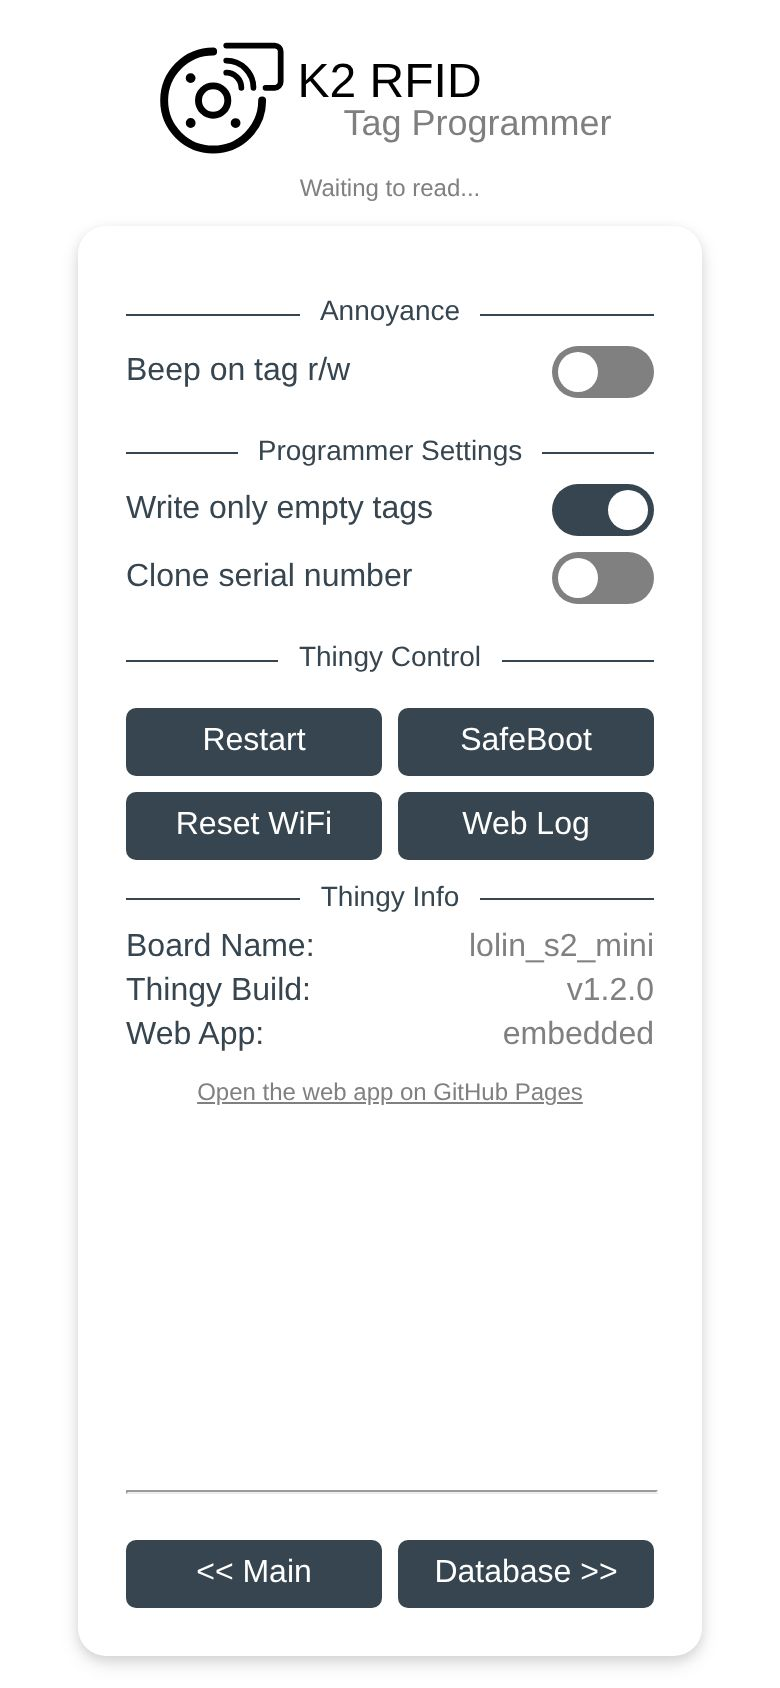
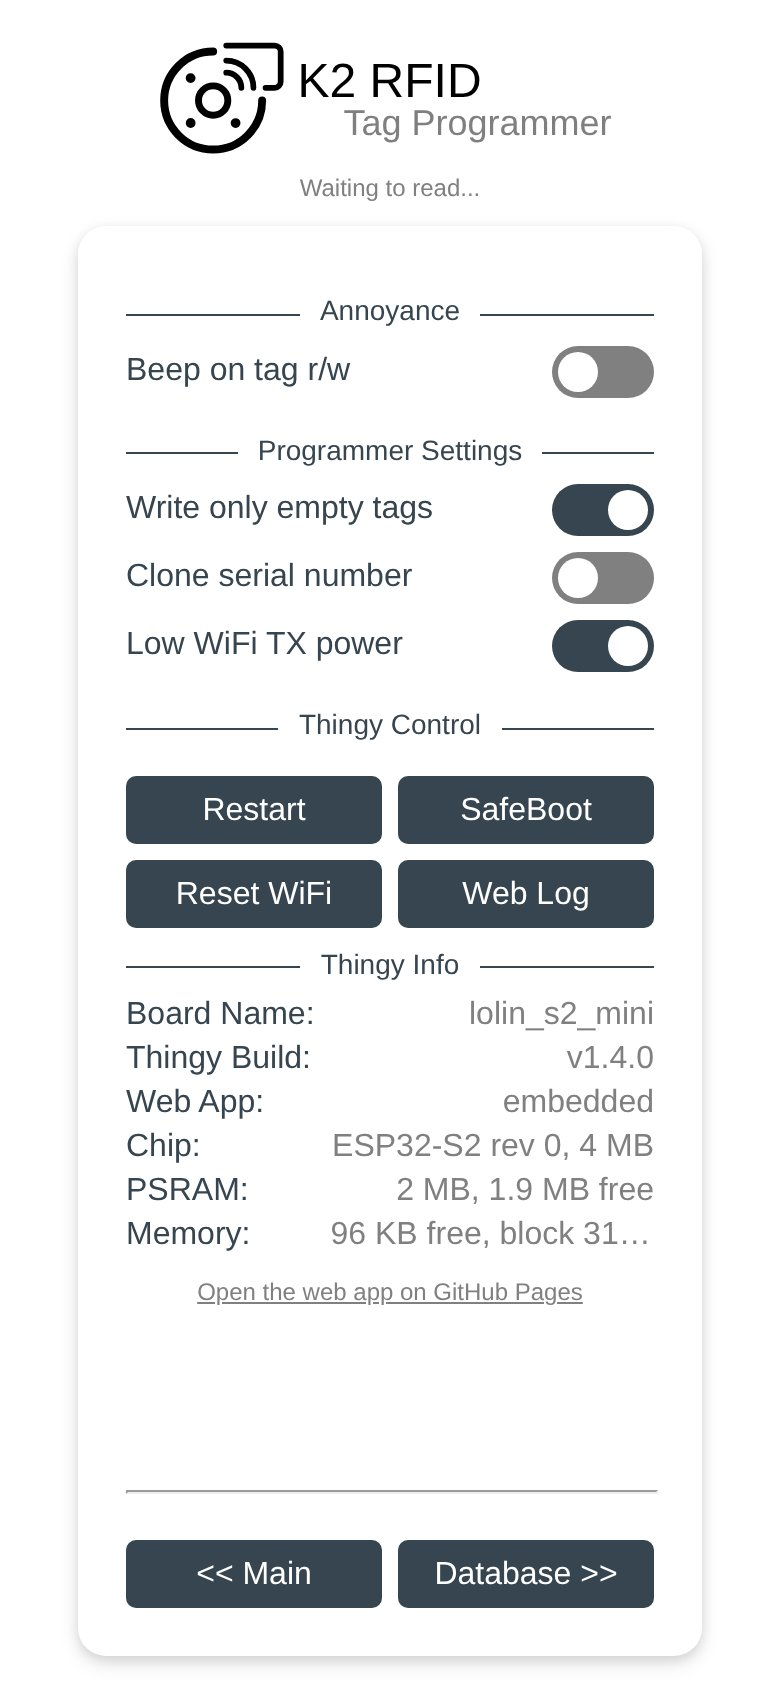
Settings: 'Low WiFi TX power' switch (8.5 dBm), v1.5.2-beta
The LOLIN S2 Mini drops out of the WiFi on weak USB power at full
transmit power. Applied on every WiFi start and right away when switched.

diff --git a/web/tools/mock-device.js b/web/tools/mock-device.js
@@ -16,7 +16,7 @@ const TYPES = { '.html': 'text/html', '.svg': 'image/svg+xml', '.png': 'image/pn
 
 // MOCK_DB=path serves another database, e.g. one copied from a printer
 let database = await readFile(process.env.MOCK_DB ?? join(DATA, 'material_database.json'))
-const config = { cloneSerial: false, beepAvailable: true, beepOnRW: false, writeTags: false, writeEmptyTags: true, PN532: true }
+const config = { cloneSerial: false, beepAvailable: true, beepOnRW: false, lowTxPower: false, writeTags: false, writeEmptyTags: true, PN532: true }
 const printer = { host: '', customPassword: false }
 let nextId = 1
 // 'app', 'down' (restarting) or 'safeboot'
@@ -109,7 +109,7 @@ wss.on('connection', (ws) => {
       config.writeEmptyTags = msg.writeEmptyTags
       broadcast({ type: 'arm_state', origin: id, writeTags: config.writeTags, writeEmptyTags: config.writeEmptyTags, spooldata: msg.spooldata })
     } else if (msg.type === 'update_config') {
-      Object.assign(config, { beepOnRW: msg.beepOnRW, cloneSerial: msg.cloneSerial })
+      Object.assign(config, { beepOnRW: msg.beepOnRW, cloneSerial: msg.cloneSerial, lowTxPower: msg.lowTxPower ?? config.lowTxPower })
       broadcast({ type: 'update_config', origin: id, ...config })
     }
   })

diff --git a/web/src/main.js b/web/src/main.js
@@ -26,6 +26,7 @@ const state = {
   writeEmptyTags: true,
   beepOnRW: false,
   beepAvailable: true,
+  lowTxPower: false,
   cloneSerial: false,
   readerAvailable: true,
 }
@@ -181,7 +182,7 @@ function disarm() {
 }
 
 function sendConfig() {
-  device.send({ type: 'update_config', beepOnRW: state.beepOnRW, cloneSerial: state.cloneSerial })
+  device.send({ type: 'update_config', beepOnRW: state.beepOnRW, cloneSerial: state.cloneSerial, lowTxPower: state.lowTxPower })
 }
 
 async function loadDbFromThingy({ silent = false } = {}) {
@@ -309,6 +310,9 @@ function onConfig(msg) {
   $('beep').checked = state.beepOnRW
   $('beep').disabled = !state.beepAvailable
   $('clone').checked = state.cloneSerial
+  // older firmware doesn't know the setting
+  if (msg.lowTxPower !== undefined) state.lowTxPower = msg.lowTxPower
+  $('low-tx').checked = state.lowTxPower
 }
 
 function onArmState(msg, { initial = false } = {}) {
@@ -496,6 +500,10 @@ function bindUi() {
   }
   $('clone').onchange = (e) => {
     state.cloneSerial = e.target.checked
+    sendConfig()
+  }
+  $('low-tx').onchange = (e) => {
+    state.lowTxPower = e.target.checked
     sendConfig()
   }
   $('write-empty').onchange = (e) => {

diff --git a/web/index.html b/web/index.html
@@ -79,6 +79,10 @@
             <span>Clone serial number</span>
             <input id="clone" type="checkbox" class="switch" data-needs-connection disabled />
           </label>
+          <label class="switch-row" title="Less WiFi transmit power, for boards that lose the WiFi on a weak power supply (e.g. a computer's USB port)">
+            <span>Low WiFi TX power</span>
+            <input id="low-tx" type="checkbox" class="switch" data-needs-connection disabled />
+          </label>
 
           <h2><span>Thingy Control</span></h2>
           <div class="row tight">

diff --git a/src/ESPNetworkTask.cpp b/src/ESPNetworkTask.cpp
@@ -25,6 +25,19 @@ void ESPNetwork::begin(Scheduler* scheduler) {
   bool ap = preferences.isKey("ap") ? preferences.getBool("ap", false) : false;
   preferences.end();
 
+  preferences.begin("k2rfid", true);
+  _lowTxPower = preferences.getBool("lowtx", false);
+  preferences.end();
+
+  // the transmit power is reset whenever the WiFi (re)starts: apply it on every start
+  if (!_txPowerListener) {
+    _txPowerListener = true;
+    WiFi.onEvent([this](arduino_event_id_t event, __unused arduino_event_info_t info) {
+      if (event == ARDUINO_EVENT_WIFI_STA_START || event == ARDUINO_EVENT_WIFI_AP_START)
+        _applyTxPower();
+    });
+  }
+
   if (ssid.empty() || ap) {
     LOGI(TAG, "Trying to start captive portal in the background...");
   } else {
@@ -51,6 +64,23 @@ void ESPNetwork::end() {
   _espConnectTask->disable();
   _espConnect.end();
   LOGD(TAG, "...done!");
+}
+
+void ESPNetwork::setLowTxPower(bool low) {
+  _lowTxPower = low;
+  Preferences preferences;
+  preferences.begin("k2rfid", false);
+  preferences.putBool("lowtx", low);
+  preferences.end();
+  _applyTxPower();
+}
+
+void ESPNetwork::_applyTxPower() {
+  if (WiFi.getMode() == WIFI_MODE_NULL)
+    return;
+  const wifi_power_t power = _lowTxPower ? WIFI_LOW_TX_POWER : WIFI_POWER_19_5dBm;
+  WiFi.setTxPower(power);
+  LOGI(TAG, "WiFi transmit power: %.1f dBm", WiFi.getTxPower() / 4.0f);
 }
 
 Mycila::ESPConnect* ESPNetwork::getESPConnect() {

diff --git a/src/WebSite.cpp b/src/WebSite.cpp
@@ -97,6 +97,7 @@ void WebSite::_webSiteCallback() {
       jsonMsg["id"] = client->id();
       jsonMsg["host"] = espNetwork.getESPConnect()->getIPAddress().toString().c_str();
       jsonMsg["cloneSerial"] = _cloneSerial;
+      jsonMsg["lowTxPower"] = espNetwork.getLowTxPower();
 #ifdef USE_BEEPER
       jsonMsg["beepAvailable"] = true;
       jsonMsg["beepOnRW"] = _beepOnRW;
@@ -199,6 +200,8 @@ void WebSite::_webSiteCallback() {
               _beepOnRW = jsonRXMsg["beepOnRW"].as<const bool>();
               rfid.enableBeep(_beepOnRW);
               _cloneSerial = jsonRXMsg["cloneSerial"].as<const bool>();
+              if (jsonRXMsg["lowTxPower"].is<bool>() && jsonRXMsg["lowTxPower"].as<bool>() != espNetwork.getLowTxPower())
+                espNetwork.setLowTxPower(jsonRXMsg["lowTxPower"].as<bool>());
 
               // save persistent options in preferences
               Preferences preferences;
@@ -218,6 +221,7 @@ void WebSite::_webSiteCallback() {
               jsonMsg["beepAvailable"] = false;
 #endif
               jsonMsg["cloneSerial"] = _cloneSerial;
+              jsonMsg["lowTxPower"] = espNetwork.getLowTxPower();
               AsyncWebSocketMessageBuffer* buffer = new AsyncWebSocketMessageBuffer(measureJson(jsonMsg));
               serializeJson(jsonMsg, buffer->get(), buffer->length());
               _ws->textAll(buffer);

diff --git a/include/ESPNetworkTask.h b/include/ESPNetworkTask.h
@@ -14,6 +14,9 @@ class ESPNetwork {
     void end();
     void clearConfiguration();
     Mycila::ESPConnect* getESPConnect();
+    // reduced WiFi transmit power (for boards that lose the WiFi on a weak power supply)
+    bool getLowTxPower() const { return _lowTxPower; }
+    void setLowTxPower(bool low);
 
   private:
     Task* _espConnectTask = nullptr;
@@ -21,4 +24,7 @@ class ESPNetwork {
     Scheduler* _scheduler = nullptr;
     AsyncWebServer* _webServer;
     Mycila::ESPConnect _espConnect;
+    bool _lowTxPower = false;
+    bool _txPowerListener = false;
+    void _applyTxPower();
 };

diff --git a/README.md b/README.md
@@ -106,7 +106,9 @@ This file is also the one containing custom materials you have added to your pri
 
 ### Settings
 
-The web app has four pages (`Main`, `Settings`, `Database` and `Firmware`), each of them fits on one screen without scrolling - on small screens the layout gets more compact and less important texts are hidden. The `Settings` page holds the switches for the beeper, for writing only empty tags and for cloning the serial number, and the buttons to restart the thingy, enter SafeBoot (for firmware updates by hand; the page waits until SafeBoot is up and then opens it, also from the GitHub Pages app), reset the WiFi credentials and open the web log.
+The web app has four pages (`Main`, `Settings`, `Database` and `Firmware`), each of them fits on one screen without scrolling - on small screens the layout gets more compact and less important texts are hidden. The `Settings` page holds the switches for the beeper, for writing only empty tags, for cloning the serial number and for a lower WiFi transmit power (`Low WiFi TX power`, see below), and the buttons to restart the thingy, enter SafeBoot (for firmware updates by hand; the page waits until SafeBoot is up and then opens it, also from the GitHub Pages app), reset the WiFi credentials and open the web log.
+
+`Low WiFi TX power` lowers the WiFi transmit power from 19.5 dBm to 8.5 dBm (build flag `WIFI_LOW_TX_POWER`). Switch it on if the thingy drops out of the WiFi after a few minutes while the RFID reader keeps working: the LOLIN S2 Mini does that on weak power supplies, e.g. a computer's USB port, because the voltage sags when it transmits. The setting is applied right away and kept across restarts. With a proper USB power supply it's not needed.
 
 At the bottom, `Thingy Info` shows the board the firmware was built for, the firmware and web app versions, the chip (model, revision, flash size), the PSRAM and the free internal RAM with its largest free block (hover or long-press an entry for details). `Update Database` downloads the database via SSH, which needs a block of 24 KB of internal RAM (see "block"). The recommended `<board>_static-stack` firmware reserves this block right at boot (shown as `+24 KB SSH`), see [Flashing Firmware](#flashing-firmware). The same data is available as JSON at `http://k2rfid.local/api/system/info`.
 

diff --git a/CHANGELOG.md b/CHANGELOG.md
@@ -1,5 +1,19 @@
 # Changelog
 
+## v1.5.2-beta
+
+### New
+
+- `Low WiFi TX power` in the settings lowers the WiFi transmit power from 19.5 dBm to 8.5 dBm. For boards that drop out of the WiFi after a few minutes while the RFID reader keeps working: the LOLIN S2 Mini does that on weak power supplies (e.g. a computer's USB port). Applied right away and kept across restarts.
+
+### Fixes
+
+- Firmware installer: `Connect to Wi-Fi` (Improv) is offered for the LOLIN S2 Mini too, and the useless `Logs & Console` entry is hidden (the thingy logs via the web log).
+
+### Installation
+
+Updating via the `Firmware` page or SafeBoot/OTA with `<board>_static-stack.firmware.bin` is enough (WiFi credentials and the material database are kept). Boards: `lolin_s2_mini`, `lolin_s2_mini_external_WS2812b`, `esp32_s3_tiny`.
+
 ## v1.5.1-beta
 
 ### Fixes
